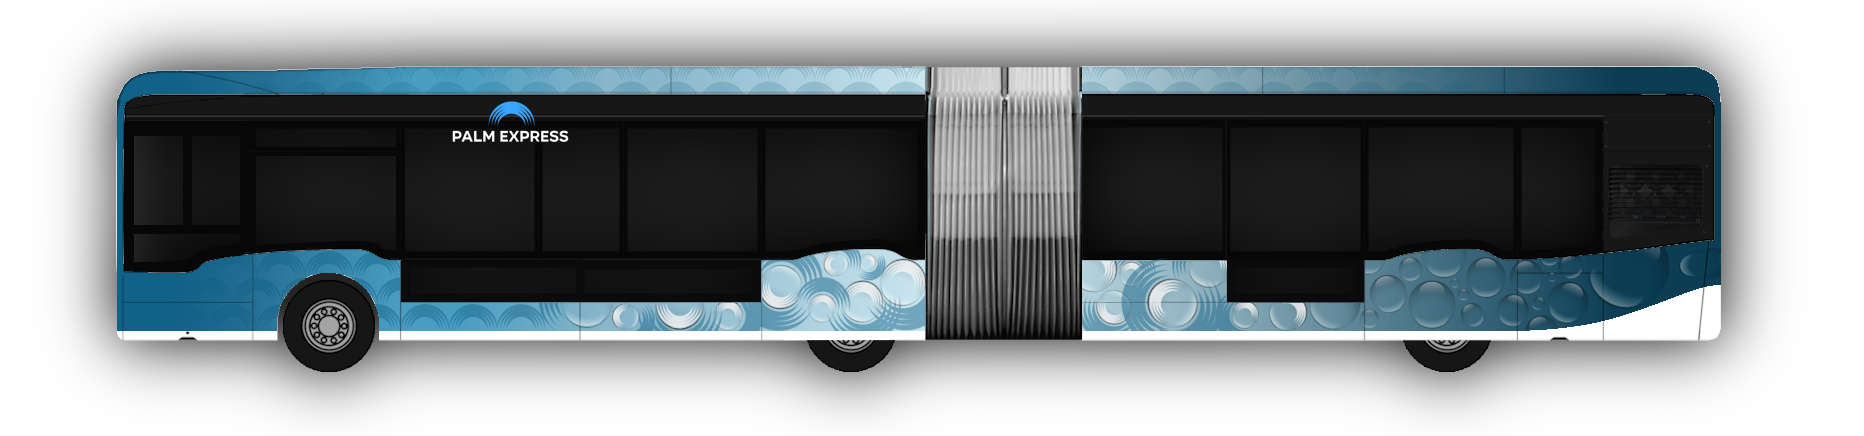
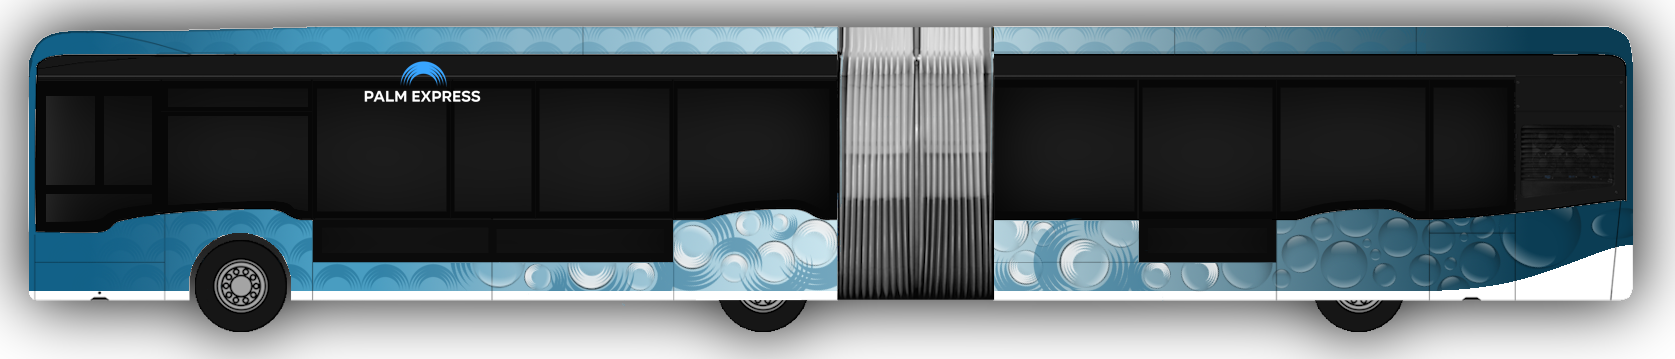
ECitaroFC thumbnail update

diff --git a/build.js b/build.js
@@ -1,1 +1,1 @@
-window.BUILD_VERSION = '20260223-221641';
+window.BUILD_VERSION = '20260224-164622';
